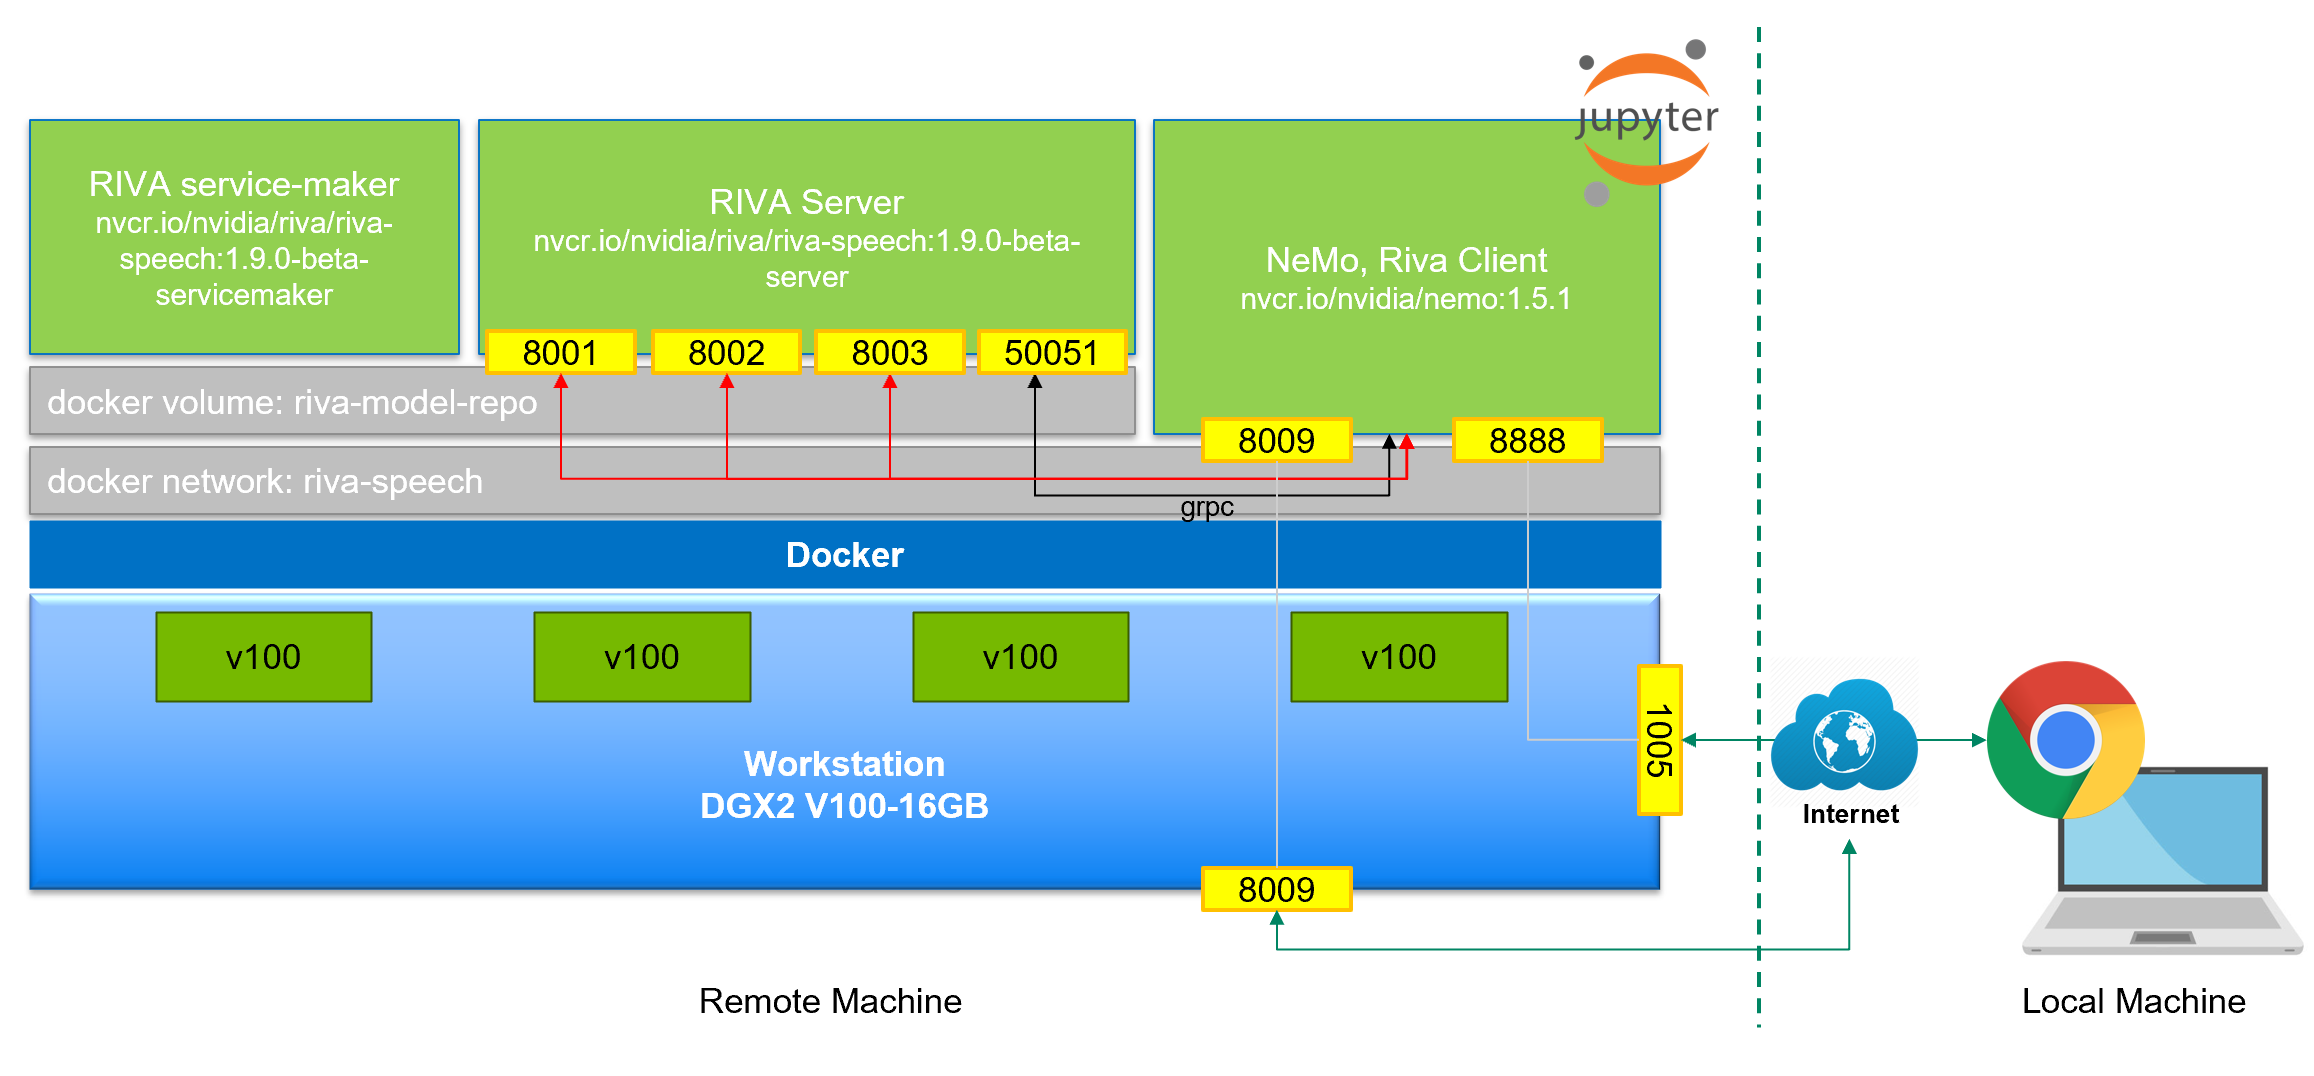
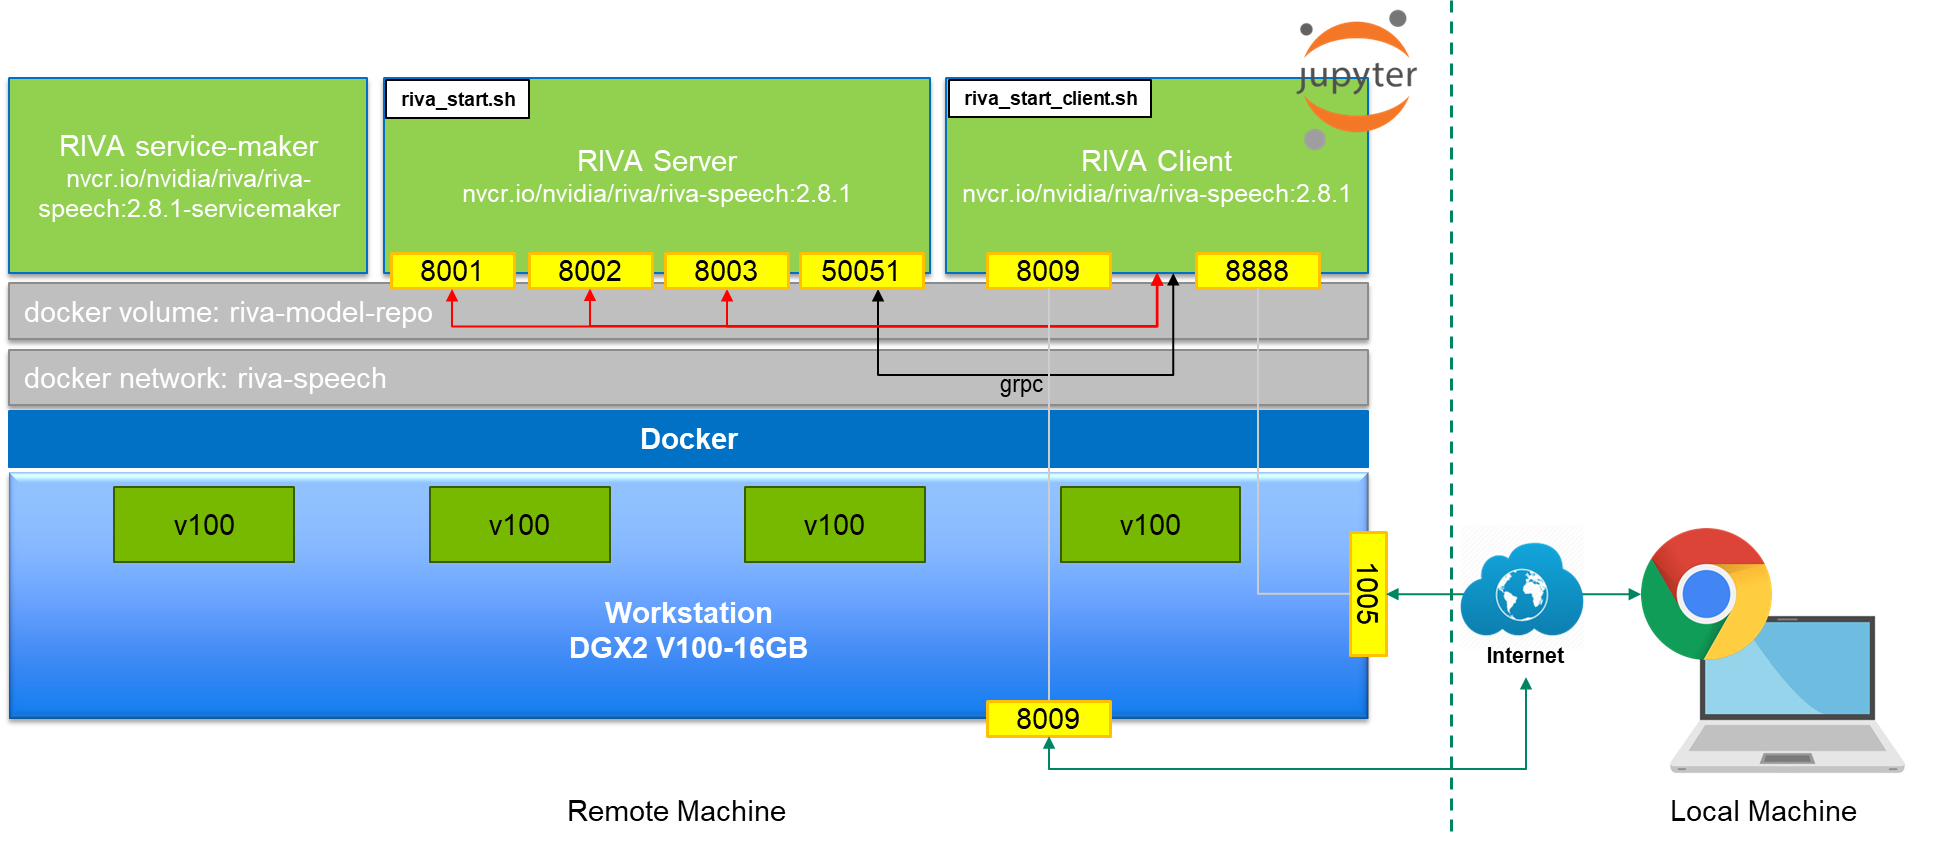
README is updated

Changed region(s): [[0.0, 0.0, 1.0, 0.9835], [0.2768, 0.922, 0.4305, 0.9835]]

diff --git a/README.md b/README.md
@@ -14,50 +14,59 @@ It contains how to convert NeMo to Riva format, how to build Riva to get RMIR, a
 ##### 4_supplement_NeMo.ipynb(Optional)
 Some additional information about NeMo is included.
 
-##### 5_riva_korean_asr.ipynb(updated at Jan.2023)
+##### 5_riva_korean_asr.ipynb(newly added at Jan.2023)
 Korean ASR model demonstration with riva
 
 ## Demo environment
+Note that the RIVA Server and Client are using the same docker image. I'd like to make sure that the **docker network** `riva-speech` might not be actually needed according to the environment(anyone who tires this demo can adjust it according to your own enviornment). In this demo case, the remote machine is running within the VPN, which requires the private docker network defined to connect with each other, and to the browser for the Juptyerlab. 
 <img src="./resources/images/demo_env.png" width="100%" height="100%" title="Demo Env" alt="Demo"></img>
-
-Docker command used to launch NeMo Container:
-```bash
-docker run --gpus device=3 -it --rm -p 1005:8888 -p 8009:8009 --network riva-speech -v <my workspace where this repo ls cloned>:/wsoh/workspace nvcr.io/nvidia/nemo.1.5.1
-```
-The **docker network** flag `--network riva-speech` might not be needed according to the environment.
 
 
 ## Prerequisite
-1. Get access to NGC and install NGC CLI tools.
+1. Clone the repository.
+    ```bash
+    git clone https://github.com/woojinsoh/riva_demo.git
+    cd riva_demo
+    ```
+
+2. Get access to NGC and install NGC CLI tools.
    - https://docs.nvidia.com/ngc/ngc-overview/index.html#registering-activating-ngc-account
 
-2. Download Riva resources from NGC
+3. Download Riva resources from NGC
     ```bash
     mkdir –p ./resources && cd resources
     ngc registry resource download-version "nvidia/riva/riva_quickstart:2.8.1" # updated(2023.01.02)
     ```
 
-3. Create docker network
+4. Create docker network
     ```bash
     docker network create riva-speech
     ```
 
-4. Initialize and start Riva Server
+5. Initialize and start Riva Server
+    - Move to the resource directory.
+    ```bash
+    cd riva_quickstart:2.8.1
+    ```
     - Modify `config.sh` with your preffered configuration from downloaded resources. Then, run:
     ```bash
-    riva_init.sh
+    bash riva_init.sh  # it usually takes over 30 mins by default
     ```
 
-5. Start Riva Server
-    - Add `--network riva-speech` option to docker running command in `riva_start.sh` from downloaded resources. Then, run:
+6. Start Riva Server
+    - Add `--net=riva-speech` option to docker running command in `riva_start.sh` from downloaded resources. Then, run:
     ```bash
-    riva_start.sh
+    bash riva_start.sh
     ```
 
-5. Start Riva Client
-    - Add some options to docker running command in `riva_start_client.sh`. For example, mount your workspace to the docker environment(i.e., `-v <my workspace path>:/workspace`) and apply the same docker network(`--net=riva-speech`) with riva server. Additional port mappings(`-p 1005:8888` for jupyterlab, `-p 8009:8009` for additional usage) are also required. Then, run:
+7. Start Riva Client
+    - Add some options to docker running command in `riva_start_client.sh`. For example, 
+        - Mount your workspace to the docker environment(i.e., `-v <myworkspace_path>:/workspace`) 
+        - Apply the same docker network(`--net=riva-speech`) with that of the Riva server. 
+        - Additional port mappings(`-p 1005:8888` for jupyterlab, `-p 8009:8009` for additional usage) are also required. 
+    - Then, run:
     ```bash
-    riva_start_client.sh
+    bash riva_start_client.sh
     ```
 
 ## Riva Resources
